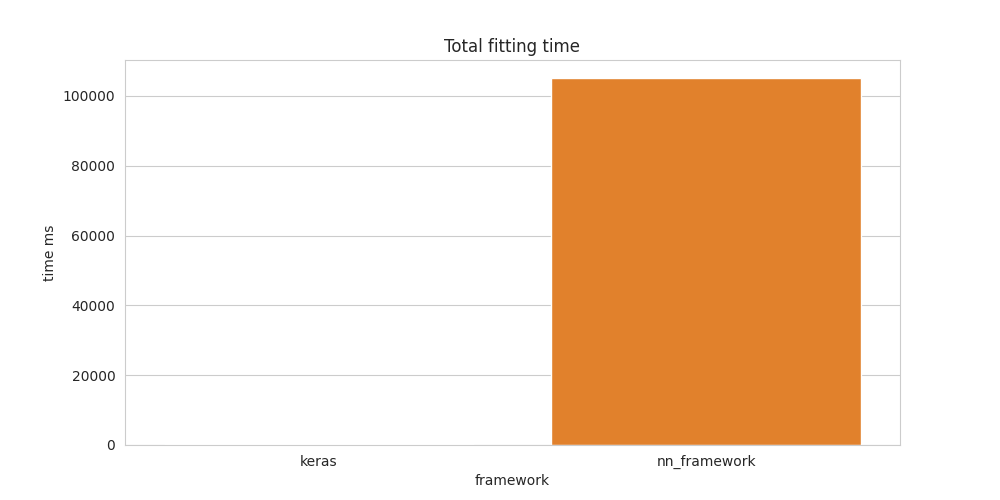
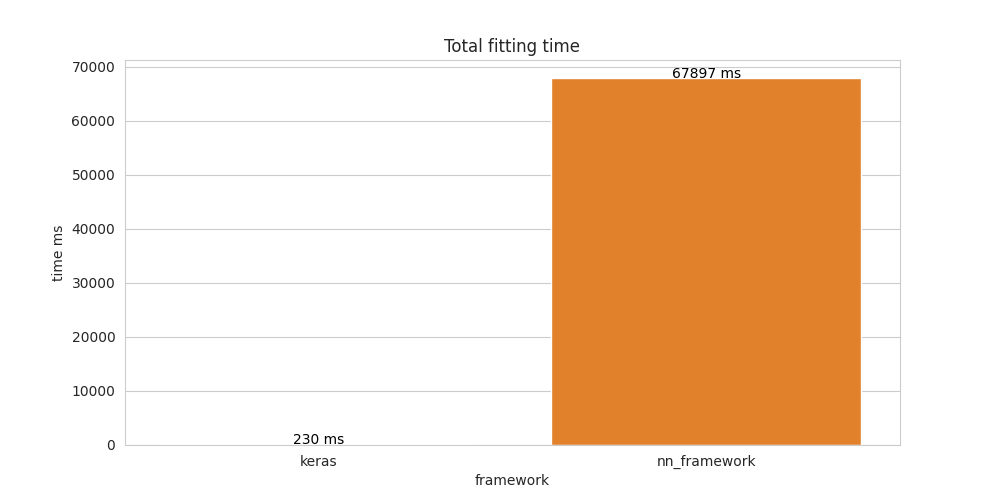
Use float in benchmarks

diff --git a/benchmarks/cases/mnist/config.cpp b/benchmarks/cases/mnist/config.cpp
@@ -17,9 +17,9 @@ namespace benchmarks {
             return {x_train, y_train, x_test, y_test};
         }
 
-        NeuralNetwork<double> BuildModel() override {
-            auto model = NeuralNetwork<double>(std::make_unique<AdamOptimizer<double>>(),
-                                               std::make_unique<CategoricalCrossEntropyLoss<double>>());
+        NeuralNetwork<float> BuildModel() override {
+            auto model = NeuralNetwork<float>(std::make_unique<AdamOptimizer<float>>(),
+                                               std::make_unique<CategoricalCrossEntropyLoss<float>>());
 
             model.AddLayer<DenseLayer>(784, 100)
                     .AddLayer<SigmoidActivationLayer>()
@@ -29,7 +29,7 @@ namespace benchmarks {
             return model;
         }
 
-        double GetScore(const Tensor<double> &y_true, const Tensor<double> &y_pred) override {
+        double GetScore(const Tensor<float> &y_true, const Tensor<float> &y_pred) override {
             return nn_framework::scoring::one_hot_accuracy_score(y_true, y_pred);
         }
 
@@ -38,15 +38,15 @@ namespace benchmarks {
         }
 
     private:
-        static std::tuple<Tensor<double>, Tensor<double>> DoLoadData(const std::string &path) {
+        static std::tuple<Tensor<float>, Tensor<float>> DoLoadData(const std::string &path) {
             auto csv_data_provider = nn_framework::io::CsvReader(path, false);
             auto data = Tensor<int>::fromVector(csv_data_provider.LoadData<int>());
             auto X = Tensor<int>({data.D[0], data.D[1] - 1}, data.Values().tail_cols(data.D[1] - 1));
             auto y = Tensor<int>({data.D[0], 1}, data.Values().head_cols(1));
             auto y_one_hot = nn_framework::data_processing::OneHotEncoding(y);
-            auto X_double = X.ConvertTo<double>();
-            auto X_norm = Tensor<double>{X_double.D, X_double.Values() / 255};
-            return {X_norm, y_one_hot.ConvertTo<double>()};
+            auto X_float = X.ConvertTo<float>();
+            auto X_norm = Tensor<float>{X_float.D, X_float.Values() / 255};
+            return {X_norm, y_one_hot.ConvertTo<float>()};
         }
     };
 }

diff --git a/benchmarks/infrastructure/runner.cpp b/benchmarks/infrastructure/runner.cpp
@@ -79,10 +79,10 @@ int main(int argc, char **argv) {
         Action action("Loading data from " + data_path);
         data = config->LoadData(data_path);
     }
-    Tensor<double> x_train, y_train, x_test, y_test;
+    Tensor<float> x_train, y_train, x_test, y_test;
     std::tie(x_train, y_train, x_test, y_test) = data;
 
-    NeuralNetwork<double> model;
+    NeuralNetwork<float> model;
     {
         Action action("Building model");
         model = config->BuildModel();
@@ -97,9 +97,9 @@ int main(int argc, char **argv) {
     std::unordered_map<int, Metric> metrics;
     long long totalMsSpent = 0;
     {
-        auto callback = std::make_shared<EpochCallback<double>>(
-                [&x_test, &y_test, &y_train, &config, &metrics](const INeuralNetwork<double> *model, int epoch) {
-                    return [&x_test, &y_test, &y_train, &config, &metrics, model, epoch](const Tensor<double>& train_prediction, double train_loss) {
+        auto callback = std::make_shared<EpochCallback<float>>(
+                [&x_test, &y_test, &y_train, &config, &metrics](const INeuralNetwork<float> *model, int epoch) {
+                    return [&x_test, &y_test, &y_train, &config, &metrics, model, epoch](const Tensor<float>& train_prediction, double train_loss) {
                         auto test_prediction = model->Predict(x_test);
                         Metric metric{};
                         metric.train_score = config->GetScore(y_train, train_prediction);

diff --git a/src/layers/activations.hpp b/src/layers/activations.hpp
@@ -65,8 +65,8 @@ public:
         ensure(input.Rank() == 2, "SoftMax activation supported only for tensors of rank = 2");
         arma::Mat<T> shifted_input =
                 input.Values() -
-                arma::max(input.Values(), 1) * arma::ones(1, input.D[1]); // todo (mpivko): do we need shift?
-        arma::Mat<T> repeated_sum = arma::sum(arma::exp(shifted_input), 1) * arma::ones(1, input.D[1]);
+                arma::max(input.Values(), 1) * arma::ones<arma::Mat<T>>(1, input.D[1]);
+        arma::Mat<T> repeated_sum = arma::sum(arma::exp(shifted_input), 1) * arma::ones<arma::Mat<T>>(1, input.D[1]);
         return Tensor<T>(input.D, arma::exp(shifted_input) / repeated_sum);
     }
 
@@ -76,8 +76,8 @@ public:
     ) const override {
         auto forward_outputs = Apply(inputs); // todo (mpivko): maybe cache this in field?
 
-        arma::mat sum = arma::sum(output_gradients.Values() % forward_outputs.Values(), 1);
-        arma::mat repeated_sum = sum * arma::ones(1, output_gradients.D[1]);
+        arma::Mat<T> sum = arma::sum(output_gradients.Values() % forward_outputs.Values(), 1);
+        arma::Mat<T> repeated_sum = sum * arma::ones<arma::Mat<T>>(1, output_gradients.D[1]);
 
         return Gradients<T>{
                 Tensor<T>(inputs.D,

diff --git a/benchmarks/infrastructure/config_interface.cpp b/benchmarks/infrastructure/config_interface.cpp
@@ -5,11 +5,11 @@
 
 class Config {
 public:
-    using DataType = std::tuple<Tensor<double>, Tensor<double>, Tensor<double>, Tensor<double>>;
+    using DataType = std::tuple<Tensor<float>, Tensor<float>, Tensor<float>, Tensor<float>>;
 
-    virtual std::tuple<Tensor<double>, Tensor<double>, Tensor<double>, Tensor<double>> LoadData(const std::string &data_path) = 0;
-    virtual NeuralNetwork<double> BuildModel() = 0;
-    virtual double GetScore(const Tensor<double> &y_true, const Tensor<double> &y_pred) = 0;
+    virtual std::tuple<Tensor<float>, Tensor<float>, Tensor<float>, Tensor<float>> LoadData(const std::string &data_path) = 0;
+    virtual NeuralNetwork<float> BuildModel() = 0;
+    virtual double GetScore(const Tensor<float> &y_true, const Tensor<float> &y_pred) = 0;
     virtual std::string GetScoreName() = 0;
 
     virtual ~Config() = default;

diff --git a/benchmarks/infrastructure/plot_results.py b/benchmarks/infrastructure/plot_results.py
@@ -56,9 +56,12 @@ def main():
         fig.savefig(f'{images_path}/metrics.png')
 
     with sns.axes_style("whitegrid"):
-        df = get_total_time_df(data)
+        df = get_total_time_df(data).sort_values(['framework']).reset_index(drop=True)
+        frameworks = sorted(df['framework'])
         fig, ax = plt.subplots(1, 1, figsize=(10, 5))
         sns.barplot('framework', 'value', data=df, ax=ax)
+        for index, row in df.iterrows():
+            ax.text(frameworks.index(row.framework), row.value, f'{row.value} ms', color='black', ha="center")
         ax.set(ylabel='time ms')
         ax.set_title(f'Total fitting time')
         fig.savefig(f'{images_path}/fitting-time.png')

diff --git a/src/layers/dropout.hpp b/src/layers/dropout.hpp
@@ -35,7 +35,7 @@ public:
     }
 
     [[nodiscard]] Gradients<T> PullGradientsBackward(
-            const Tensor<T> &inputs,
+            const Tensor<T>&,
             const Tensor<T> &output_gradients
     ) const override {
         auto result = Tensor<T>(output_gradients.D, output_gradients.Field());
@@ -48,7 +48,7 @@ public:
         };
     }
 
-    void ApplyGradients(const Tensor<T> &gradients) override {}
+    void ApplyGradients(const Tensor<T>&) override {}
 
     template<class Archive>
     void serialize(Archive &ar) {

diff --git a/src/layers/dense.hpp b/src/layers/dense.hpp
@@ -14,7 +14,9 @@ public:
     DenseLayer() = default;
 
     DenseLayer(int input_size, int output_size)
-            : weights_and_bias({input_size + 1, output_size}, arma::randu(input_size + 1, output_size) - 0.5) {
+            : weights_and_bias(Tensor<double>({input_size + 1, output_size},
+                                              arma::randu(input_size + 1, output_size) -
+                                              0.5).ConvertTo<T>()) {
     }
 
     [[nodiscard]] Tensor<T> GetWeightsAndBias() const {

diff --git a/src/data_processing/data_utils.hpp b/src/data_processing/data_utils.hpp
@@ -35,7 +35,8 @@ namespace nn_framework::data_processing {
             auto values = matrix.Values();
             return Tensor<T>(
                     matrix.D,
-                    (values - arma::ones(values.n_rows, 1) * mean) / (arma::ones(values.n_rows, 1) * stddev)
+                    (values - arma::ones<arma::Mat<T>>(values.n_rows, 1) * mean) /
+                    (arma::ones<arma::Mat<T>>(values.n_rows, 1) * stddev)
             );
         }
 

diff --git a/src/optimizer.hpp b/src/optimizer.hpp
@@ -168,7 +168,7 @@ public:
 private:
     arma::Mat<T> GetOrCreatePrevious(const ILayer<T> *layer, mapping_type &mapping, arma::SizeMat size) {
         auto it = mapping.find(layer);
-        arma::mat previous;
+        arma::Mat<T> previous;
         if (it != mapping.end()) {
             return it->second;
         }
